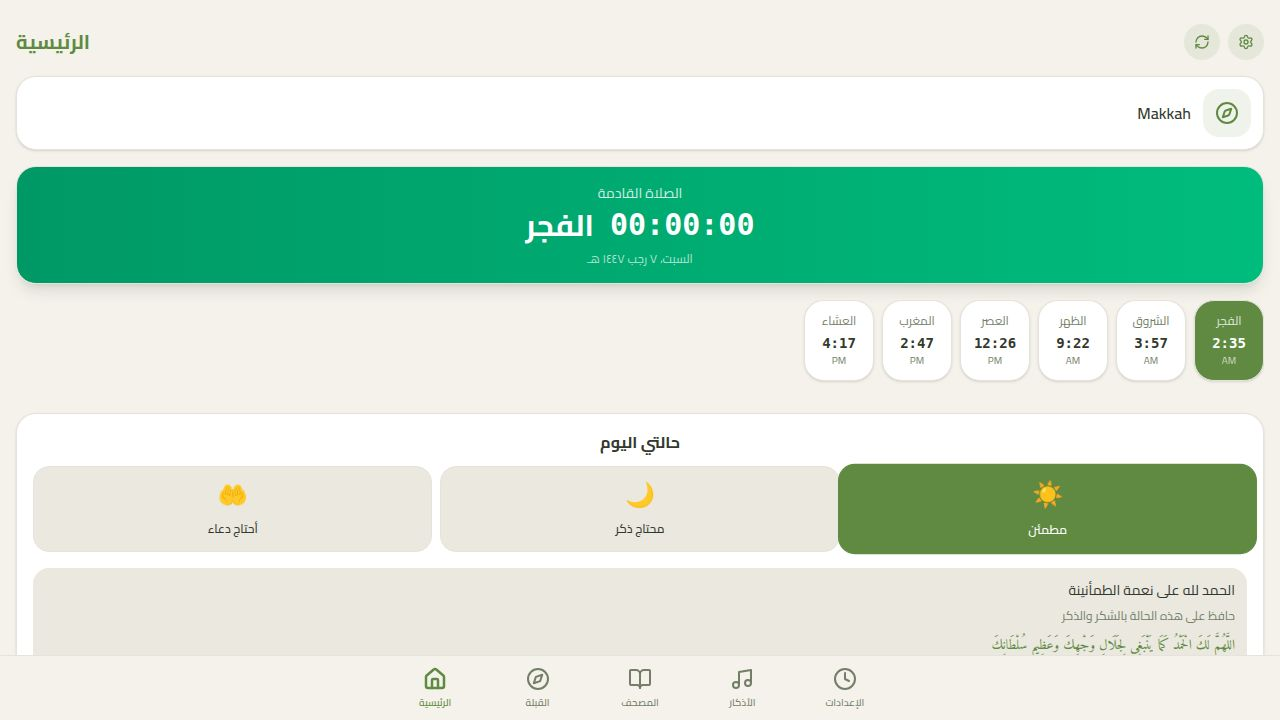
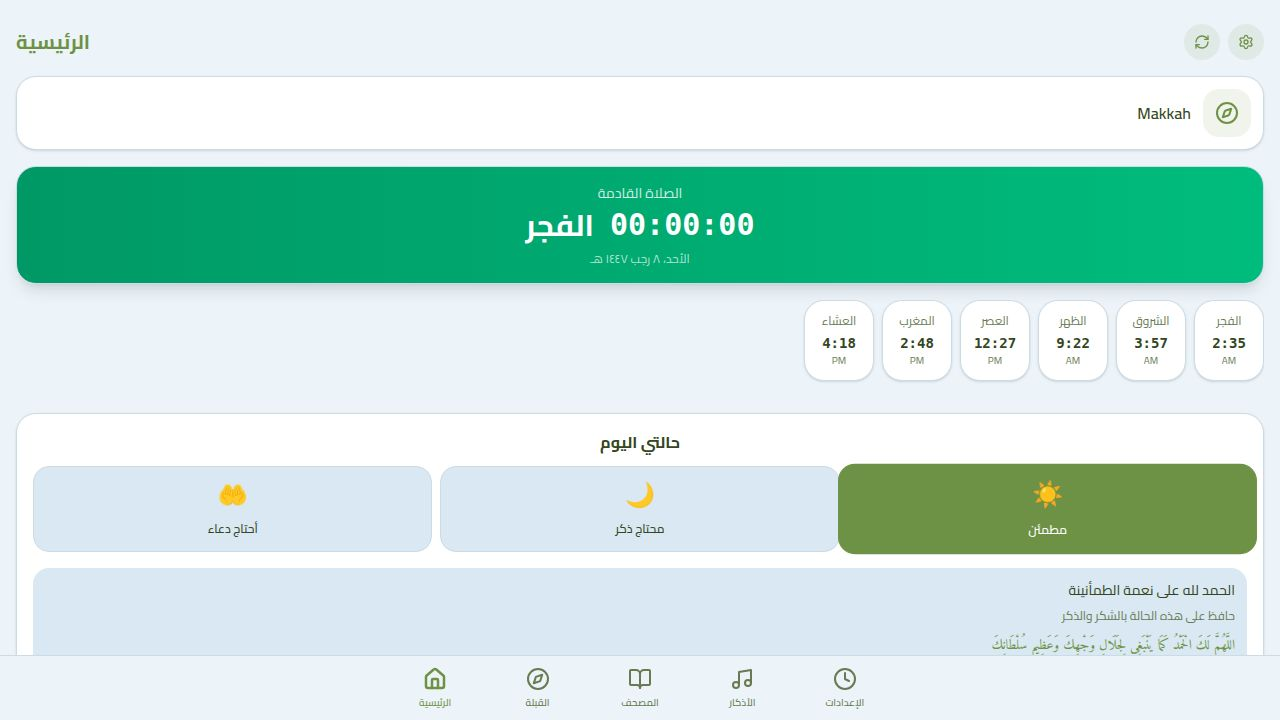
Update app's primary colors to new theme values
Applies the new color scheme across the application, including background, foreground, and accent colors in CSS variables and specific component styles for better visual consistency.

Replit-Commit-Author: Agent
Replit-Commit-Session-Id: 283bbfc7-08a4-486d-ae89-723724de31df
Replit-Commit-Checkpoint-Type: full_checkpoint
Replit-Commit-Event-Id: cbb095e3-0265-4393-92e3-ea1b5d2794f8
Replit-Commit-Screenshot-Url: https://storage.googleapis.com/screenshot-production-us-central1/66d3d570-a4d4-4fa5-b514-9c752344f169/283bbfc7-08a4-486d-ae89-723724de31df/drqS91P
Replit-Helium-Checkpoint-Created: true

diff --git a/client/src/pages/home.tsx b/client/src/pages/home.tsx
@@ -483,7 +483,7 @@ export default function HomePage() {
                   exit={{ opacity: 0, height: 0 }}
                   className="overflow-hidden"
                 >
-                  <div className="bg-gradient-to-l from-emerald-50 to-teal-50 dark:from-emerald-900/20 dark:to-teal-900/20 rounded-xl p-4 text-center">
+                  <div className="bg-gradient-to-l from-[#bedbe8]/30 to-[#bbac92]/20 dark:from-[#709046]/20 dark:to-[#bbac92]/10 rounded-xl p-4 text-center">
                     <p className="text-lg font-serif text-foreground leading-relaxed mb-2" data-testid="text-suggested-dua">
                       {duaByMood[selectedFeeling as keyof typeof duaByMood].duas[0].text}
                     </p>
@@ -500,7 +500,7 @@ export default function HomePage() {
 
       {/* Divine Message */}
       <div className="px-4 mb-6">
-        <Card className="bg-gradient-to-l from-indigo-600 to-indigo-700 text-white shadow-lg overflow-hidden">
+        <Card className="bg-gradient-to-l from-[#f4b360] to-[#e09840] text-white shadow-lg overflow-hidden">
           <CardContent className="p-4 text-center">
             <span className="text-3xl block mb-3">💫</span>
             <p className="text-lg font-serif leading-relaxed mb-2" data-testid="text-divine-message">
@@ -520,16 +520,16 @@ export default function HomePage() {
               <button
                 onClick={() => toggleHasanat('prayed')}
                 className={`flex flex-col items-center gap-2 p-3 rounded-xl transition-all ${
-                  todayHasanat.prayed ? 'bg-emerald-100 dark:bg-emerald-900/30' : 'bg-muted'
+                  todayHasanat.prayed ? 'bg-[#709046]/20 dark:bg-[#709046]/30' : 'bg-muted'
                 }`}
                 data-testid="btn-hasanat-prayed"
               >
                 <div className={`w-12 h-12 rounded-full flex items-center justify-center text-2xl ${
-                  todayHasanat.prayed ? 'bg-emerald-500 text-white' : 'bg-muted-foreground/20'
+                  todayHasanat.prayed ? 'bg-[#709046] text-white' : 'bg-muted-foreground/20'
                 }`}>
                   {todayHasanat.prayed ? '✓' : '🕌'}
                 </div>
-                <span className={`text-xs font-medium ${todayHasanat.prayed ? 'text-emerald-600 dark:text-emerald-400' : 'text-muted-foreground'}`}>
+                <span className={`text-xs font-medium ${todayHasanat.prayed ? 'text-[#709046] dark:text-[#8ab05a]' : 'text-muted-foreground'}`}>
                   صليت
                 </span>
               </button>
@@ -537,16 +537,16 @@ export default function HomePage() {
               <button
                 onClick={() => toggleHasanat('read')}
                 className={`flex flex-col items-center gap-2 p-3 rounded-xl transition-all ${
-                  todayHasanat.read ? 'bg-emerald-100 dark:bg-emerald-900/30' : 'bg-muted'
+                  todayHasanat.read ? 'bg-[#709046]/20 dark:bg-[#709046]/30' : 'bg-muted'
                 }`}
                 data-testid="btn-hasanat-read"
               >
                 <div className={`w-12 h-12 rounded-full flex items-center justify-center text-2xl ${
-                  todayHasanat.read ? 'bg-emerald-500 text-white' : 'bg-muted-foreground/20'
+                  todayHasanat.read ? 'bg-[#709046] text-white' : 'bg-muted-foreground/20'
                 }`}>
                   {todayHasanat.read ? '✓' : '📖'}
                 </div>
-                <span className={`text-xs font-medium ${todayHasanat.read ? 'text-emerald-600 dark:text-emerald-400' : 'text-muted-foreground'}`}>
+                <span className={`text-xs font-medium ${todayHasanat.read ? 'text-[#709046] dark:text-[#8ab05a]' : 'text-muted-foreground'}`}>
                   قرأت
                 </span>
               </button>
@@ -554,16 +554,16 @@ export default function HomePage() {
               <button
                 onClick={() => toggleHasanat('remembered')}
                 className={`flex flex-col items-center gap-2 p-3 rounded-xl transition-all ${
-                  todayHasanat.remembered ? 'bg-emerald-100 dark:bg-emerald-900/30' : 'bg-muted'
+                  todayHasanat.remembered ? 'bg-[#709046]/20 dark:bg-[#709046]/30' : 'bg-muted'
                 }`}
                 data-testid="btn-hasanat-remembered"
               >
                 <div className={`w-12 h-12 rounded-full flex items-center justify-center text-2xl ${
-                  todayHasanat.remembered ? 'bg-emerald-500 text-white' : 'bg-muted-foreground/20'
+                  todayHasanat.remembered ? 'bg-[#709046] text-white' : 'bg-muted-foreground/20'
                 }`}>
                   {todayHasanat.remembered ? '✓' : '📿'}
                 </div>
-                <span className={`text-xs font-medium ${todayHasanat.remembered ? 'text-emerald-600 dark:text-emerald-400' : 'text-muted-foreground'}`}>
+                <span className={`text-xs font-medium ${todayHasanat.remembered ? 'text-[#709046] dark:text-[#8ab05a]' : 'text-muted-foreground'}`}>
                   ذكرت
                 </span>
               </button>
@@ -577,7 +577,7 @@ export default function HomePage() {
 
       {/* Continue Reading Quran */}
       <div className="px-4 mb-6">
-        <Card className="bg-gradient-to-l from-[#5B8A51] to-[#4A7A45] text-white overflow-hidden">
+        <Card className="bg-gradient-to-l from-[#709046] to-[#5a7338] text-white overflow-hidden">
           <CardContent className="p-4 flex items-center justify-between">
             <div className="flex-1">
               <p className="text-sm opacity-90 mb-1">متابعة المصحف</p>

diff --git a/client/src/index.css b/client/src/index.css
@@ -52,84 +52,84 @@
   --radius: 1rem;
 }
 
-/* LIGHT MODE - Olive Green & Beige Theme (Salah Time App Style) */
+/* LIGHT MODE - Custom Theme #bedbe8, #f4b360, #bbac92, #709046 */
 :root {
-  --background: 45 30% 94%; /* Warm Beige/Cream */
-  --foreground: 90 10% 20%; /* Dark Olive Text */
+  --background: 203 50% 95%; /* Light Blue tint #bedbe8 */
+  --foreground: 88 36% 20%; /* Dark Green text */
   
   --card: 0 0% 100%;
-  --card-foreground: 90 10% 20%;
+  --card-foreground: 88 36% 20%;
   
   --popover: 0 0% 100%;
-  --popover-foreground: 90 10% 20%;
+  --popover-foreground: 88 36% 20%;
   
-  --primary: 95 35% 40%; /* Olive Green #5B8A51 */
+  --primary: 88 36% 42%; /* Green #709046 */
   --primary-foreground: 0 0% 100%;
   
-  --secondary: 95 25% 50%; /* Lighter Olive */
-  --secondary-foreground: 0 0% 100%;
+  --secondary: 37 26% 65%; /* Beige #bbac92 */
+  --secondary-foreground: 88 36% 20%;
   
-  --muted: 45 20% 90%;
-  --muted-foreground: 90 10% 45%;
+  --muted: 203 50% 90%;
+  --muted-foreground: 88 20% 40%;
   
-  --accent: 95 20% 92%;
-  --accent-foreground: 95 35% 35%;
+  --accent: 34 87% 67%; /* Orange/Gold #f4b360 */
+  --accent-foreground: 88 36% 20%;
   
   --destructive: 0 84% 60%;
   --destructive-foreground: 0 0% 98%;
   
-  --border: 45 15% 88%;
-  --input: 45 15% 88%;
-  --ring: 95 35% 40%;
+  --border: 203 30% 85%;
+  --input: 203 30% 85%;
+  --ring: 88 36% 42%;
   
-  --sidebar: 0 0% 98%;
-  --sidebar-foreground: 90 10% 26%;
-  --sidebar-primary: 95 35% 40%;
+  --sidebar: 203 50% 97%;
+  --sidebar-foreground: 88 36% 20%;
+  --sidebar-primary: 88 36% 42%;
   --sidebar-primary-foreground: 0 0% 100%;
-  --sidebar-accent: 45 20% 95%;
-  --sidebar-accent-foreground: 90 10% 20%;
-  --sidebar-border: 45 15% 90%;
-  --sidebar-ring: 95 35% 40%;
+  --sidebar-accent: 34 87% 90%;
+  --sidebar-accent-foreground: 88 36% 20%;
+  --sidebar-border: 203 30% 88%;
+  --sidebar-ring: 88 36% 42%;
 }
 
 /* DARK MODE */
 .dark {
-  --background: 90 20% 8%;
-  --foreground: 45 10% 90%;
+  --background: 203 30% 8%;
+  --foreground: 203 50% 90%;
   
-  --card: 90 15% 12%;
-  --card-foreground: 45 10% 90%;
+  --card: 203 20% 12%;
+  --card-foreground: 203 50% 90%;
   
-  --popover: 90 15% 12%;
-  --popover-foreground: 45 10% 90%;
+  --popover: 203 20% 12%;
+  --popover-foreground: 203 50% 90%;
   
-  --primary: 95 40% 50%;
-  --primary-foreground: 90 20% 8%;
+  --primary: 88 40% 50%; /* Green #709046 lighter */
+  --primary-foreground: 0 0% 100%;
   
-  --secondary: 95 30% 45%;
+  --secondary: 37 26% 50%; /* Beige darker */
   --secondary-foreground: 0 0% 100%;
   
-  --muted: 90 15% 18%;
-  --muted-foreground: 45 10% 60%;
+  --muted: 203 20% 18%;
+  --muted-foreground: 203 30% 60%;
   
-  --accent: 90 20% 18%;
-  --accent-foreground: 45 10% 90%;
+  --accent: 34 87% 55%; /* Orange/Gold #f4b360 */
+  --accent-foreground: 0 0% 100%;
   
   --destructive: 0 62% 30%;
   --destructive-foreground: 0 0% 98%;
   
-  --border: 90 15% 20%;
-  --input: 90 15% 20%;
-  --ring: 95 40% 50%;
+  --border: 203 20% 20%;
+  --input: 203 20% 20%;
+  --ring: 88 40% 50%;
   
-  --sidebar: 90 15% 10%;
-  --sidebar-foreground: 45 10% 90%;
-  --sidebar-primary: 95 40% 50%;
+  --sidebar: 203 25% 10%;
+  --sidebar-foreground: 203 50% 90%;
+  --sidebar-primary: 88 40% 50%;
   --sidebar-primary-foreground: 0 0% 100%;
-  --sidebar-accent: 90 15% 18%;
-  --sidebar-accent-foreground: 45 10% 90%;
-  --sidebar-border: 90 15% 20%;
-  --sidebar-ring: 95 40% 50%;
+  --sidebar-accent: 34 50% 25%;
+  --sidebar-accent-foreground: 203 50% 90%;
+  --sidebar-border: 203 20% 20%;
+  --sidebar-ring: 88 40% 50%;
 }
 
 @layer base {

diff --git a/client/src/pages/tasbih.tsx b/client/src/pages/tasbih.tsx
@@ -7,12 +7,12 @@ import { useLocalStorage } from "@/lib/use-local-storage";
 import { Link } from "wouter";
 
 const tasbihat = [
-  { text: "سُبْحَانَ اللَّهِ", target: 33, color: "from-emerald-500 to-emerald-600" },
-  { text: "الْحَمْدُ لِلَّهِ", target: 33, color: "from-amber-500 to-amber-600" },
-  { text: "اللَّهُ أَكْبَرُ", target: 34, color: "from-blue-500 to-blue-600" },
-  { text: "لَا إِلَٰهَ إِلَّا اللَّهُ", target: 100, color: "from-purple-500 to-purple-600" },
-  { text: "أَسْتَغْفِرُ اللَّهَ", target: 100, color: "from-teal-500 to-teal-600" },
-  { text: "سُبْحَانَ اللَّهِ وَبِحَمْدِهِ", target: 100, color: "from-rose-500 to-rose-600" },
+  { text: "سُبْحَانَ اللَّهِ", target: 33, color: "from-[#709046] to-[#5a7338]" },
+  { text: "الْحَمْدُ لِلَّهِ", target: 33, color: "from-[#f4b360] to-[#e09840]" },
+  { text: "اللَّهُ أَكْبَرُ", target: 34, color: "from-[#bedbe8] to-[#9bc5d6]" },
+  { text: "لَا إِلَٰهَ إِلَّا اللَّهُ", target: 100, color: "from-[#bbac92] to-[#a69778]" },
+  { text: "أَسْتَغْفِرُ اللَّهَ", target: 100, color: "from-[#709046] to-[#5a7338]" },
+  { text: "سُبْحَانَ اللَّهِ وَبِحَمْدِهِ", target: 100, color: "from-[#f4b360] to-[#e09840]" },
 ];
 
 export default function TasbihPage() {

diff --git a/client/src/pages/athkar.tsx b/client/src/pages/athkar.tsx
@@ -13,12 +13,12 @@ import { Link } from "wouter";
 type CategoryKey = keyof typeof athkarData;
 
 const categories: { id: CategoryKey; label: string; icon: string; color: string }[] = [
-  { id: 'morning', label: 'أذكار الصباح', icon: '☀', color: 'bg-amber-100' },
-  { id: 'evening', label: 'أذكار المساء', icon: '🌙', color: 'bg-indigo-100' },
-  { id: 'prayer', label: 'أذكار الصلاة', icon: '🕌', color: 'bg-emerald-100' },
-  { id: 'waking', label: 'أذكار بعد الصلاة', icon: '🤲', color: 'bg-teal-100' },
-  { id: 'sleep', label: 'أذكار النوم', icon: '🛏', color: 'bg-purple-100' },
-  { id: 'travel', label: 'أذكار السفر', icon: '✈', color: 'bg-blue-100' },
+  { id: 'morning', label: 'أذكار الصباح', icon: '☀', color: 'bg-[#f4b360]/30' },
+  { id: 'evening', label: 'أذكار المساء', icon: '🌙', color: 'bg-[#bedbe8]/50' },
+  { id: 'prayer', label: 'أذكار الصلاة', icon: '🕌', color: 'bg-[#709046]/20' },
+  { id: 'waking', label: 'أذكار بعد الصلاة', icon: '🤲', color: 'bg-[#bbac92]/30' },
+  { id: 'sleep', label: 'أذكار النوم', icon: '🛏', color: 'bg-[#bedbe8]/40' },
+  { id: 'travel', label: 'أذكار السفر', icon: '✈', color: 'bg-[#f4b360]/20' },
 ];
 
 const contextCategories = Object.entries(contextualAthkar).map(([key, value]) => ({

diff --git a/client/src/pages/quran.tsx b/client/src/pages/quran.tsx
@@ -114,7 +114,7 @@ export default function QuranIndex() {
          </Link>
       )}
 
-      <Card className="bg-gradient-to-l from-emerald-600 to-emerald-700 text-white overflow-hidden mb-6">
+      <Card className="bg-gradient-to-l from-[#709046] to-[#5a7338] text-white overflow-hidden mb-6">
         <CardContent className="p-4">
           <div className="flex items-center justify-between mb-3">
             <div className="flex items-center gap-2">
